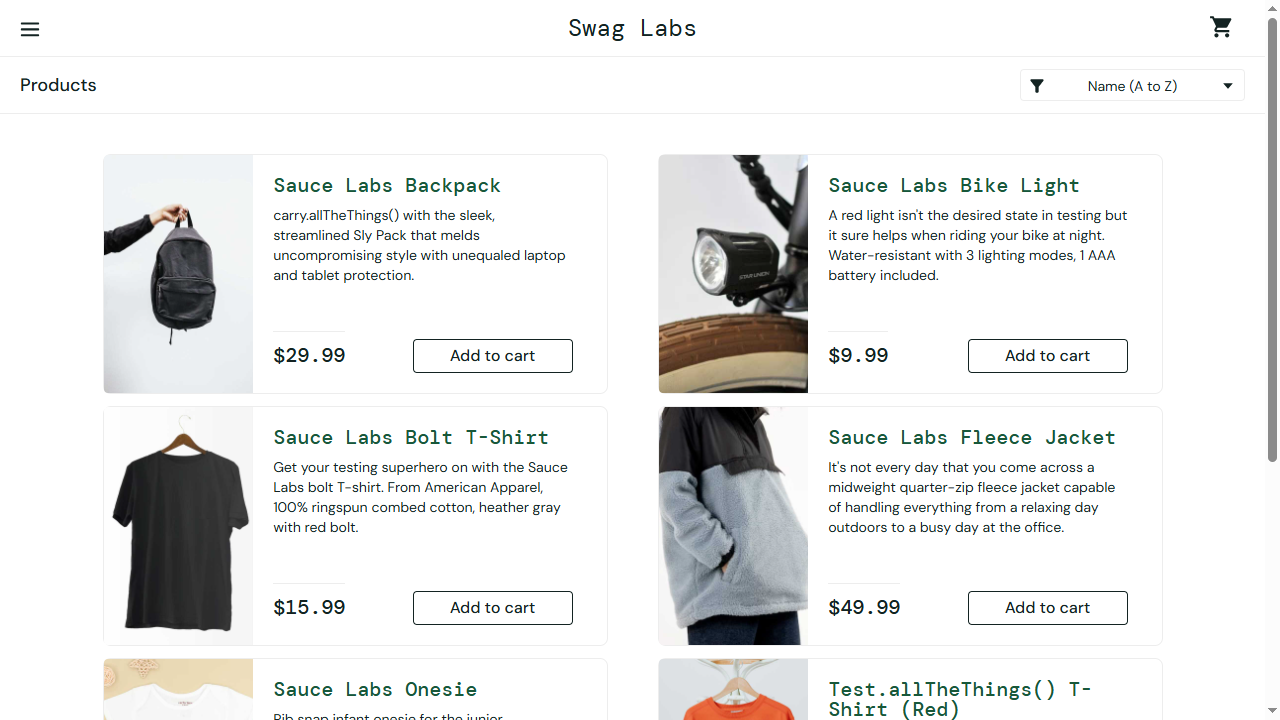
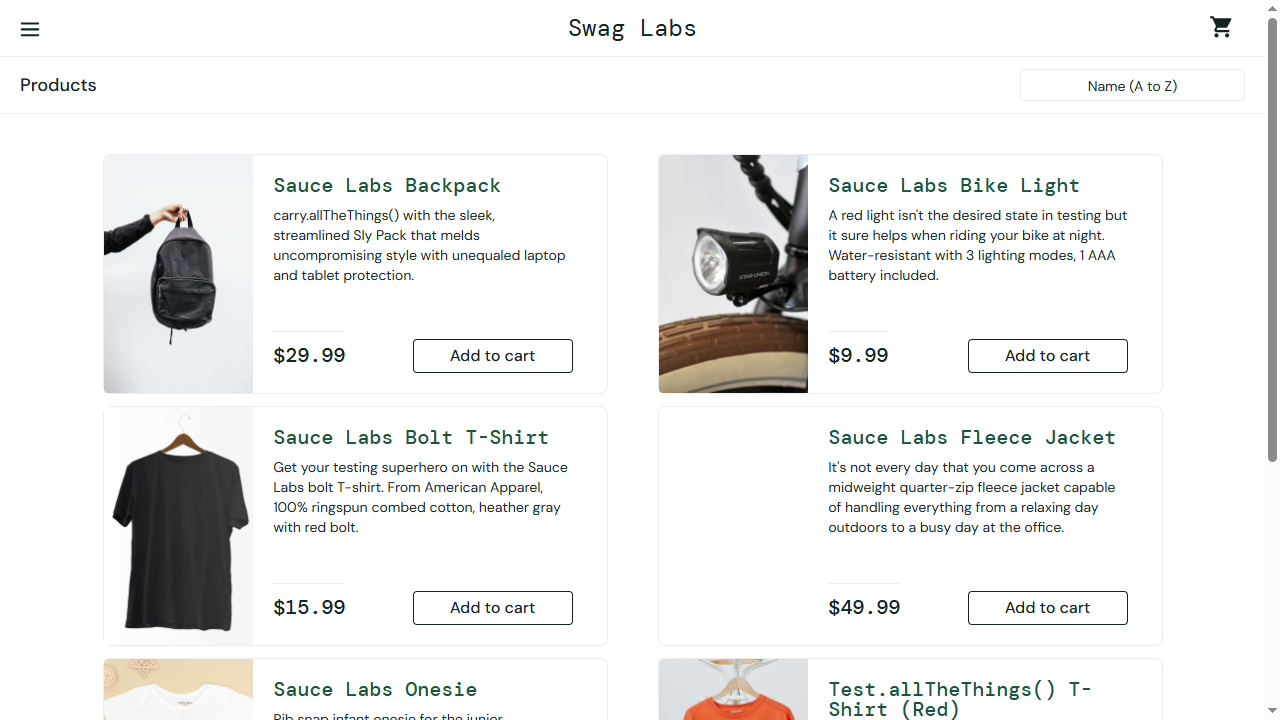
h

Changed region(s): [[0.5, 0.55, 0.6562, 0.9167]]

diff --git a/Test_code/test_2Invalid_login.py b/Test_code/test_2Invalid_login.py
@@ -3,11 +3,14 @@ def test_invalid_login():
       with sync_playwright() as p:
             browser=p.chromium.launch(headless=False)
             page=browser.new_page()
+
+
+
             page.goto("https://www.saucedemo.com/")             #1st step
             page.fill("#user-name","student_123")
             page.fill("#password","sauce_incorrect")
             page.click("#login-button")
-            # assert page.locator("h3").inner_text() == "Epic sadface: Username and password do not match any user in this service"
+            # assert page.locator("h3").inner_text() == "Epic sadface: Password is required"
             assert "Epic sadface" in page.locator("h3").inner_text()
             page.screenshot(path="Screenshots/screenshot1.png")
             print("Login unsuccessful")

diff --git a/Test_code/test_1Valid_login.py b/Test_code/test_1Valid_login.py
@@ -7,7 +7,6 @@ def test_valid_login():
 
 
 
-
             page.goto("https://www.saucedemo.com/")             #1st step
             page.fill("#user-name","standard_user")     #instead of css selectors we can also "use get_by_label"
             page.fill("#password","secret_sauce")